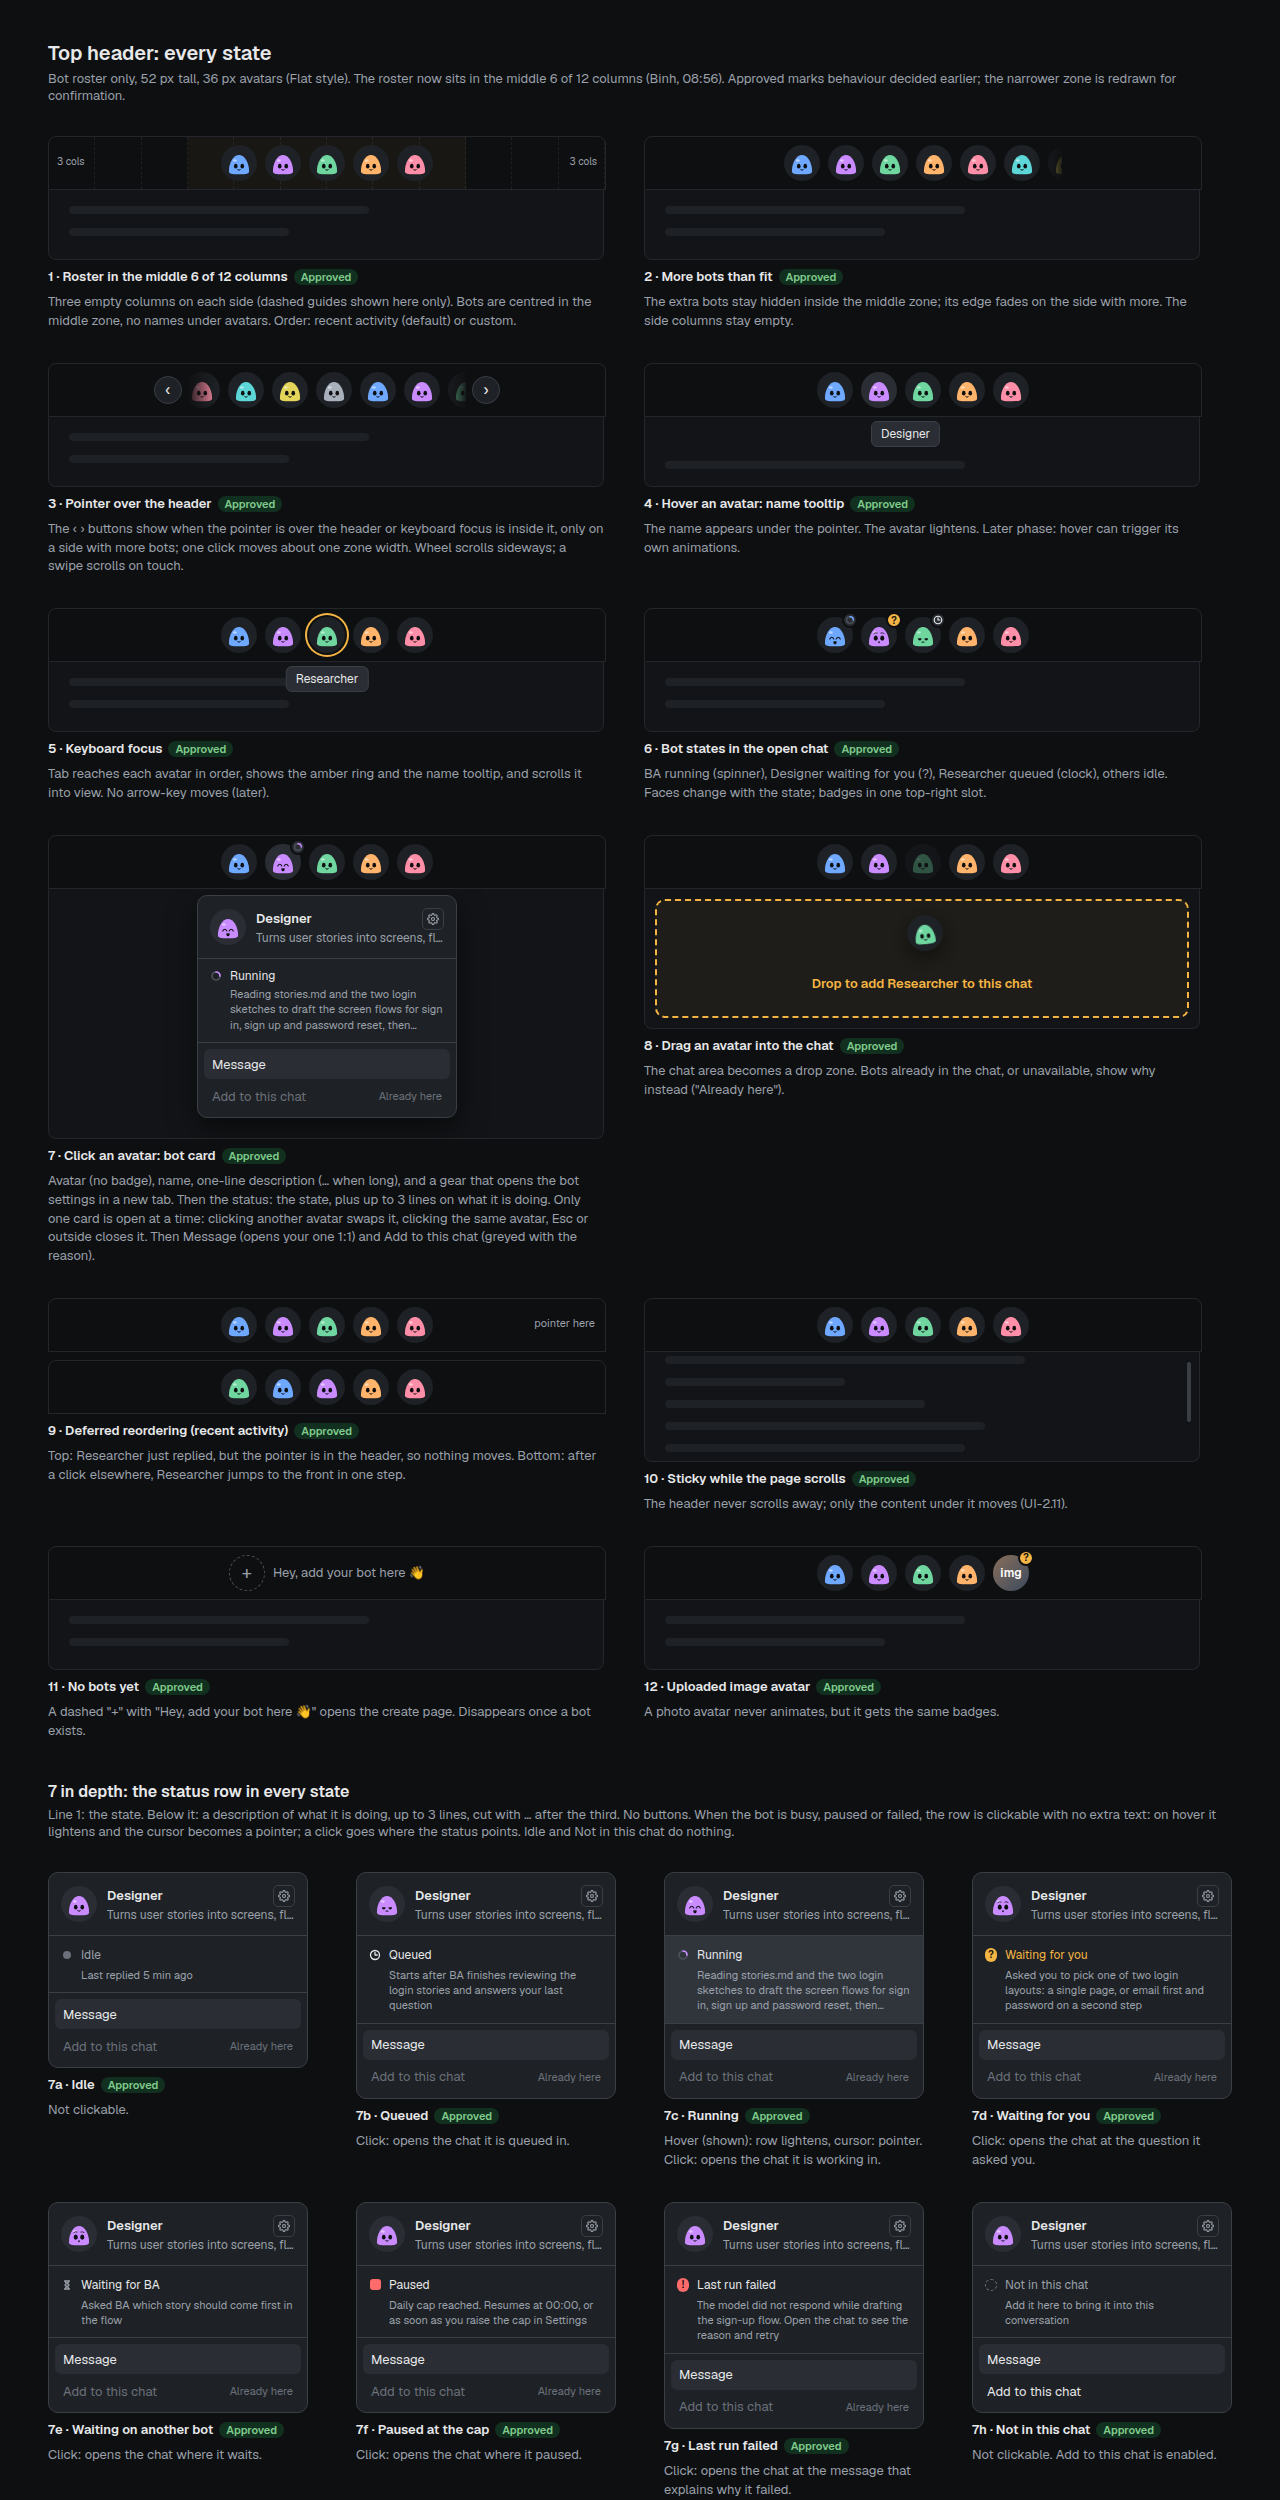
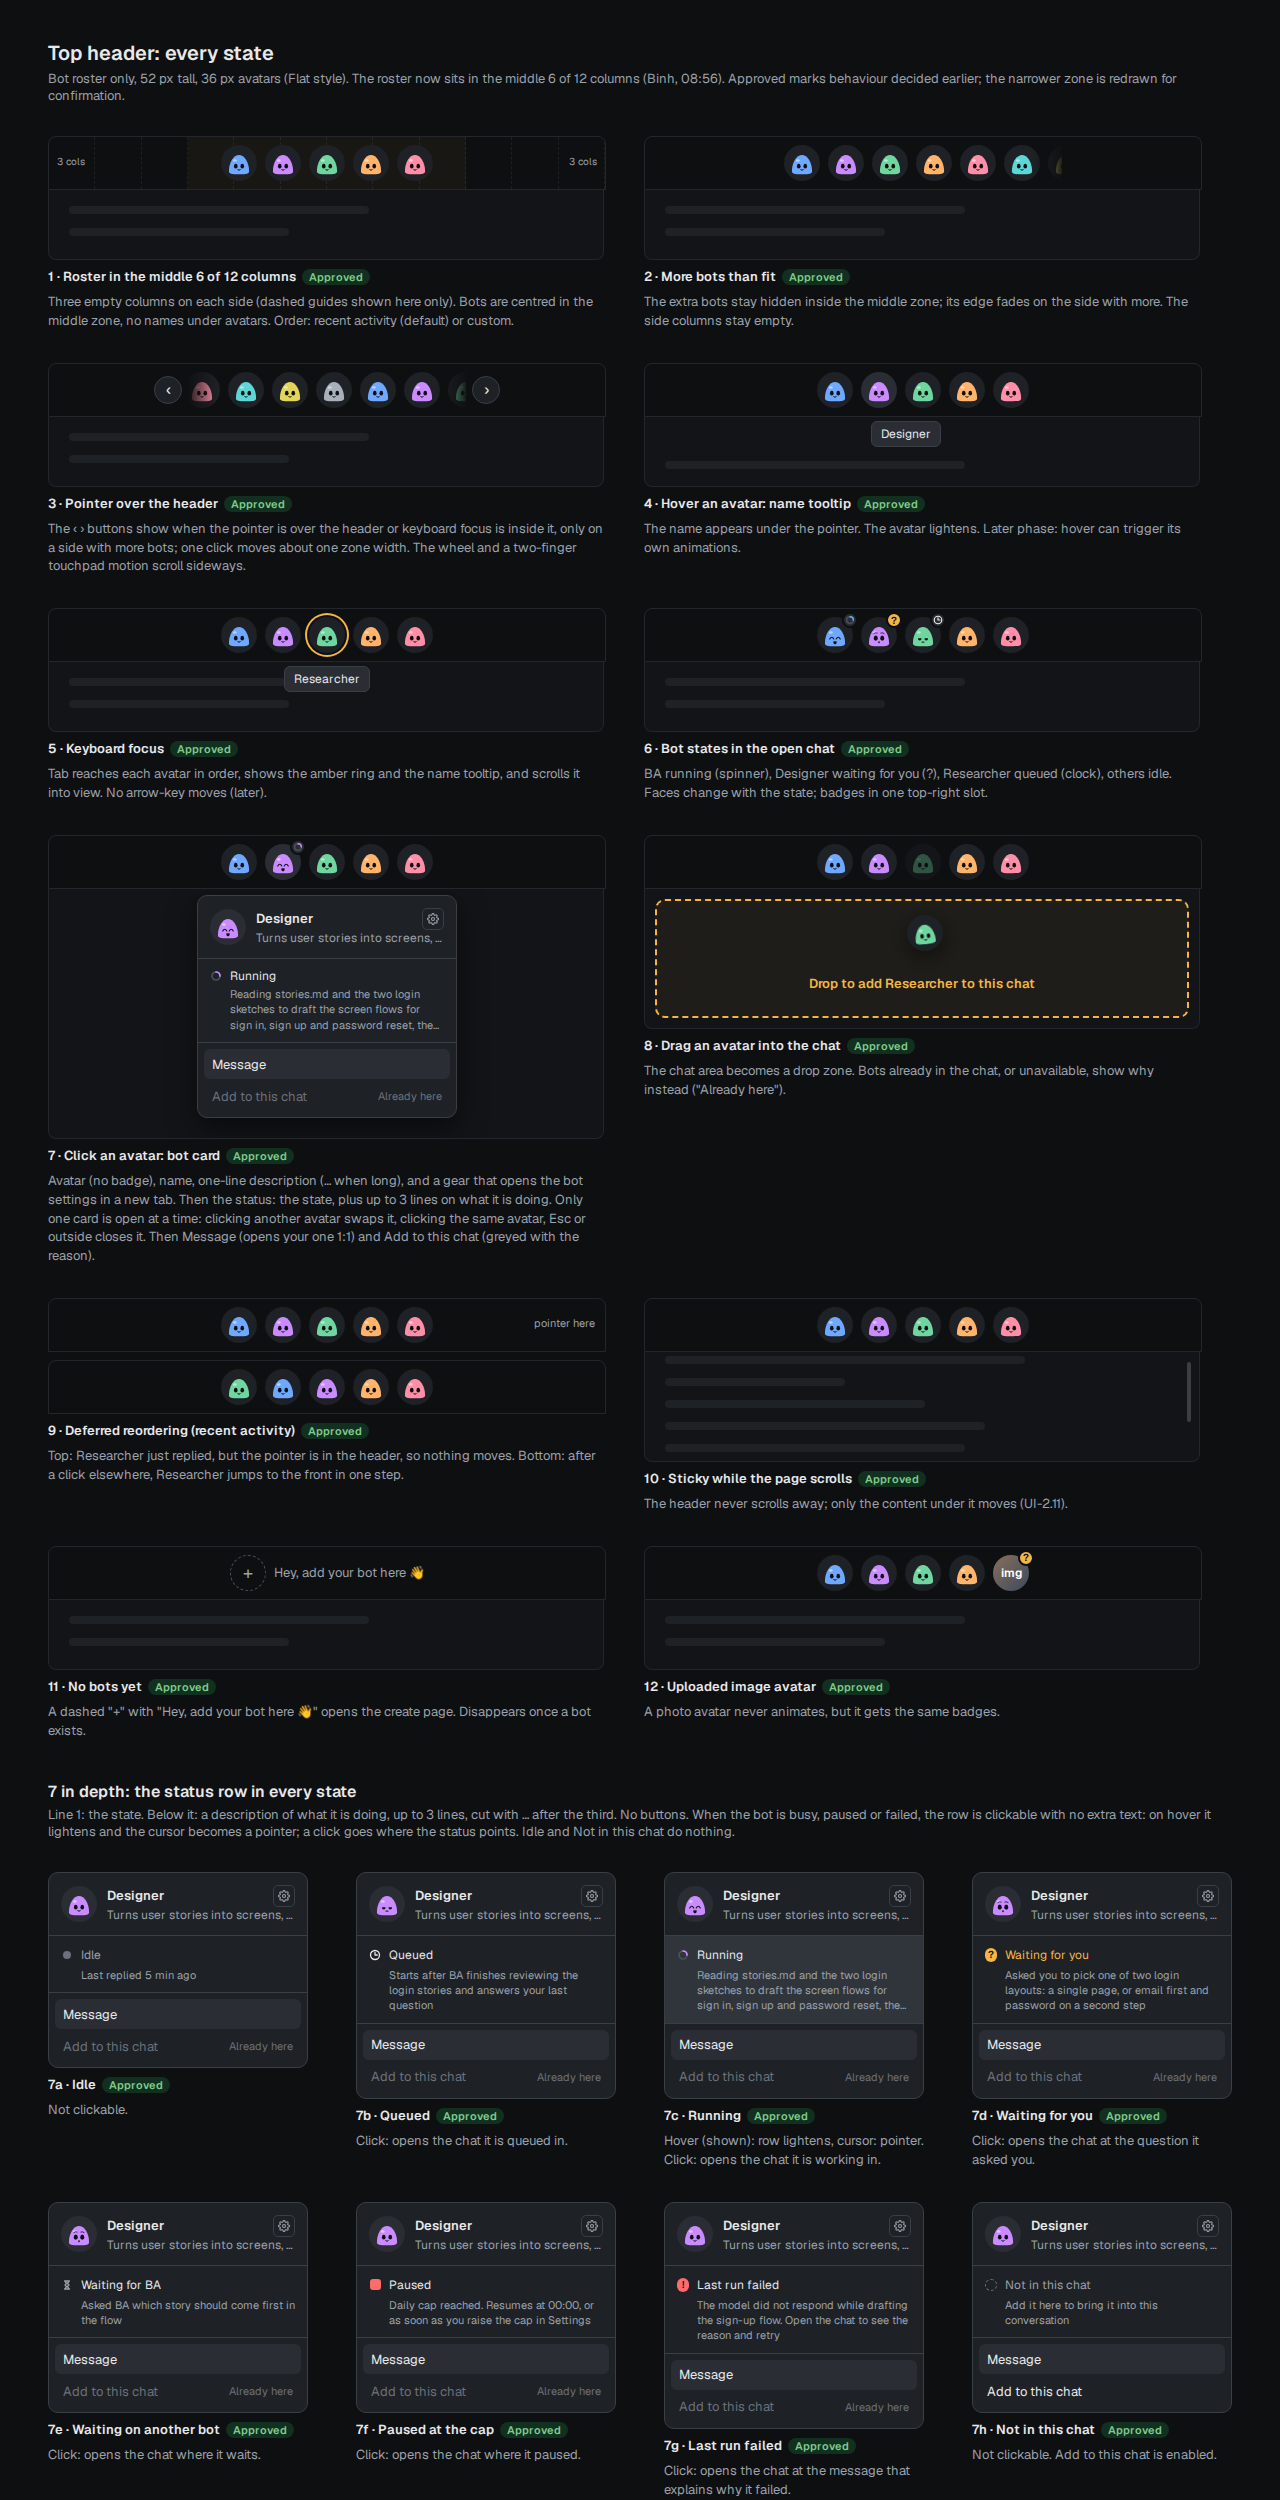
Fix the audit counts and finish the two rule changes
Review of #71 found three gaps. `ui-rules.md` must take a new owner rule
in the same PR. The header preview PNG still showed the touch swipe. The
summary counted before the owner's decisions: rating six tabs P2 makes 15
P2, and the Trash case is accepted.

Claude-Session: https://claude.ai/code/session_01Waa8VmDLZPcheyGzcTKgsZ

diff --git a/docs/audits/2026-11-05-repo-audit.md b/docs/audits/2026-11-05-repo-audit.md
@@ -56,7 +56,7 @@ Each fix PR updates its row in the same PR. Check `gh pr list --state all`, beca
 
 Commit `1c413b3` on `main`. The audit changed no repo files. At that commit, all gates passed: lint, typecheck, 1,360 unit tests, 71 e2e tests, `check:index`, `check:events`, `db:check`, build and `check:bundle`.
 
-This list combines two audits. It has 55 findings: 0 P1, 14 P2, 2 for the owner to rate, and 39 P3. The second audit gave 4 findings: 3 are new, and 1 was already on this list. It rated one finding P1, and the lead rates it P2 (row 1a).
+This list combines two audits. It has 55 findings. After the owner's decisions, 15 are P2, 39 are P3, 1 is an accepted case, and none is P1. The second audit gave 4 findings: 3 are new, and 1 was already on this list. It rated one finding P1, and the owner rated it P2 (row 1a).
 
 "Checked" means that the lead ran the case or read the code again. "Reviewer" means that only the reviewer's evidence supports the finding.
 
@@ -86,12 +86,12 @@ For the first five rows, the reviewer changed the code in a scratch copy of the 
 | 12 | The header roster stops moving while the pointer is in the header | `frontend/src/features/shell/header-roster.tsx:263` |
 | 13 | The wheel and a two-finger touchpad motion scroll the roster (`top-header.md` state 3). The code exists, but the only wheel test scrolls `main` (`frontend/test/e2e/shell.spec.ts:52`). This row replaces the touch swipe, which the owner dropped. Mouse drag has tests (`frontend/test/e2e/bots.spec.ts:130`, `:312`, `:409`) | `frontend/src/features/shell/header-roster.tsx:290` |
 
-## For the owner to rate
+## Rated by the owner
 
-| # | Finding | Options |
+| # | Finding | Owner's decision |
 | --- | --- | --- |
-| 14 | With six app tabs open, every request in every tab hangs with no error. Each tab holds one stream, and the browser allows six connections for each host. Reviewer evidence: `frontend/src/lib/realtime/sse.ts:30` | P3 if six tabs is not normal use; P1 by the bar's wording if it is |
-| 15 | Trash in another tab removes the unsaved text on a skill page with no question. The bot page accepts this result in `bot-page.md` §4.2, but `skills-page.md` has no such rule. Code read by the lead: `frontend/src/features/skills/skill-page.tsx:101` | Accept and write it in `skills-page.md`, or keep the text |
+| 14 | With six app tabs open, every request in every tab hangs with no error. Each tab holds one stream, and the browser allows six connections for each host. Reviewer evidence: `frontend/src/lib/realtime/sse.ts:30` | **P2**, fix before M3 (question 2) |
+| 15 | Trash in another tab removes the unsaved text on a skill page with no question. The bot page accepts this result in `bot-page.md` §4.2, but `skills-page.md` has no such rule. Code read by the lead: `frontend/src/features/skills/skill-page.tsx:101` | **Accepted**: `skills-page.md` takes the rule, and no code changes (question 3) |
 
 ## P3
 

diff --git a/docs/design/ui-rules.md b/docs/design/ui-rules.md
@@ -64,6 +64,8 @@
 | P7 | Standard parts live in `components/`, one file each | manual | Owner 2026-10-23 |
 | P8 | A board shows the whole screen as the spec defines it, also parts from later slices. Draw each later part for real, with a small tag that names its slice ("M5"). Never leave a part out or hide it in a note | manual | Owner 2026-10-25 13:32 |
 | P9 | One control for one job: every number is the number box with its unit, every on/off is the switch, a named choice is the segmented control. A dropdown only for a long list | manual | Owner 2026-10-26, `components/settings-page.md` §3.2 |
+| P10 | The header roster scrolls with the wheel, a two-finger touchpad motion and the ‹ › buttons. A finger swipe is not a requirement | manual | Owner 2026-11-05, `components/top-header.md` state 3 |
+| P11 | A bot or a skill that leaves the list (Trash, another tab) takes its page's unsaved edit with it, and no question appears | manual | Owner 2026-11-05, `components/bot-page.md` §4.2, `components/skills-page.md` |
 
 ### Time
 

diff --git a/docs/status.md b/docs/status.md
@@ -12,7 +12,7 @@ Last updated: 2026-11-05
 
 ## Now
 
-The repository audit of 2026-11-05 found 55 issues (0 P1, 14 P2 after the owner's decisions, 39 P3). Its fixes come before M3 and #69 in the owner's order. Findings, decisions and progress are in [audits/2026-11-05-repo-audit.md](audits/2026-11-05-repo-audit.md).
+The repository audit of 2026-11-05 found 55 issues. After the owner's decisions, 15 are P2, 39 are P3, and the owner accepted one case; none is P1. Its fixes come before M3 and #69 in the owner's order. Findings, decisions and progress are in [audits/2026-11-05-repo-audit.md](audits/2026-11-05-repo-audit.md).
 
 M0, M1 and M2 are merged. M2c merged in [#59](https://github.com/binhle312/cty1ng/pull/59) on 2026-11-04.
 M2c adds the bot page and the Skills page's upgrade and assign cards.
